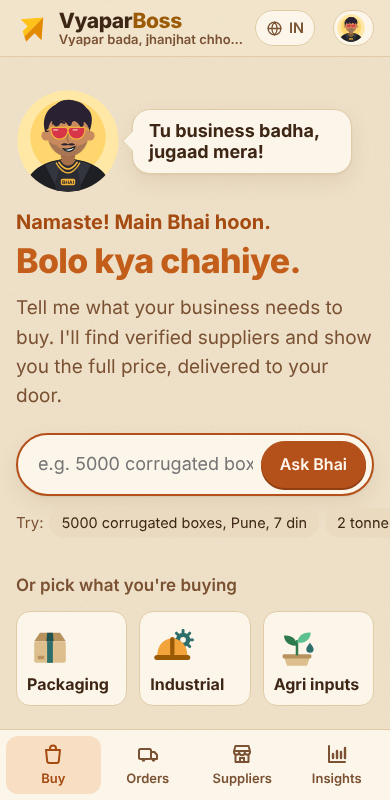
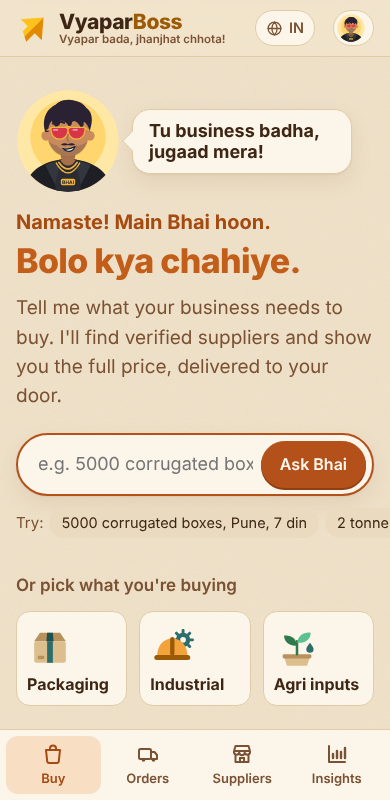
Hide the header tagline where the tabs need the room (760–1100 px) instead of cutting it off
Claude-Session: https://claude.ai/code/session_011s3ket5gqMEXNTU3nGRahV

Changed region(s): [[0.1538, 0.0, 0.5846, 0.0625]]

diff --git a/src/styles.css b/src/styles.css
@@ -524,7 +524,8 @@ details.more[open]::details-content{block-size:auto}
 @media(min-width:860px){.hero{grid-template-columns:minmax(0,1.25fr) minmax(0,.75fr)}}
 /* Tablet: tabs and the header extras share one row, so the extras go compact. */
 @media(max-width:1020px){.regionpick .rp-long{display:none}.regionpick .rp-short{display:inline}.bhai-status span{display:none}.bhai-status{padding:3px 8px 3px 3px}}
-@media(min-width:760px) and (max-width:900px){.tagline{display:none}.tabs button{padding:8px 10px}}
+@media(min-width:760px) and (max-width:1100px){.tagline{display:none}}
+@media(min-width:760px) and (max-width:900px){.tabs button{padding:8px 10px}}
 .seg{max-width:100%;overflow-x:auto;scrollbar-width:none}.seg::-webkit-scrollbar{display:none}
 .seg button{white-space:nowrap}
 @media(max-width:480px){.seg button{padding:7px 12px;font-size:15px}}
